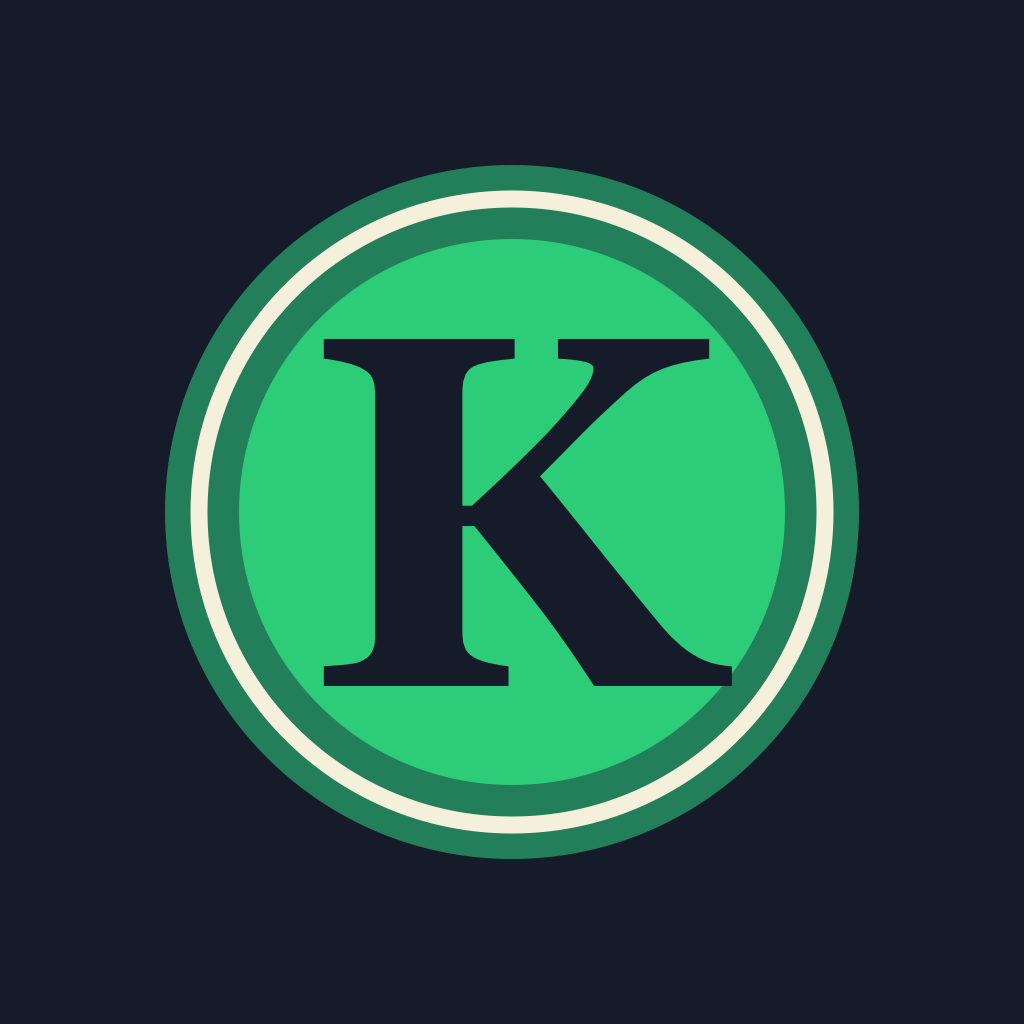
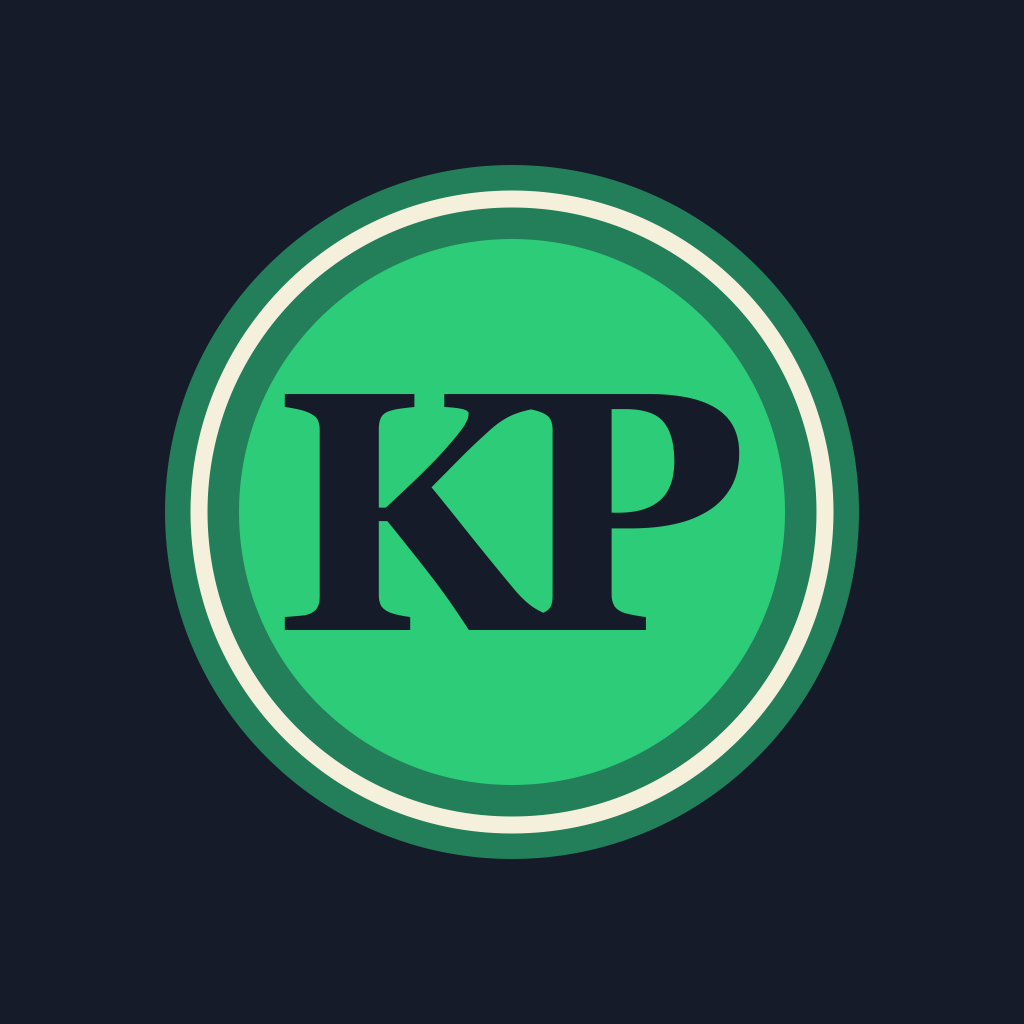
feat(app): the press seal carries a KP ligature
Replace the lone K in the press seal with a KP ligature for The Knowledge
Press: Georgia Bold K and P, the K's arm and leg serifs landing on the P's
stem. The letters are traced to outlines in app/icon/press-seal.svg and
press-seal-macos.svg, so they no longer depend on the installed serif, and
the ligature sits inside the green disc, where the live-text K ran past it.

Re-rendered from those sources, at the same sizes and alpha as before:
the 1024 px master (opaque, for the App Store) and its copies in the iOS
asset catalog and KnowledgePressUI resources, all ten macOS sizes, and the
proof strip. The web favicon is the same seal cropped to the circle,
replacing the tree-over-book mark.

Drop the project.yml note that the glyph depends on CI's fonts; it no
longer does.

Changed region(s): [[0.2812, 0.3125, 0.7188, 0.6875]]

diff --git a/CHANGELOG.md b/CHANGELOG.md
@@ -53,6 +53,13 @@ Format follows [Keep a Changelog](https://keepachangelog.com/en/1.0.0/).
 
 ### Changed
 
+- **A new icon: the press seal.** The graph mark with a Gutenberg "G" at its
+  hub is gone. The app icon on iOS and macOS, the splash and About screens,
+  and the web app's favicon now show a seal: a KP ligature for The Knowledge
+  Press, the K's serifs landing on the P's stem, set in a ringed green disc
+  like a printer's mark. The letters are Georgia Bold traced to outlines, so
+  the source SVGs in `app/icon/` render the same on any machine; the old
+  live-text K also ran past the green disc at its lower right.
 - **The forest is a hub and spoke.** Groves stood on a golden-angle spiral at
   whatever distance they fitted, joined by roads routed around the trunks, so
   from above the roads wandered. Now the smaller groves stand outside a
